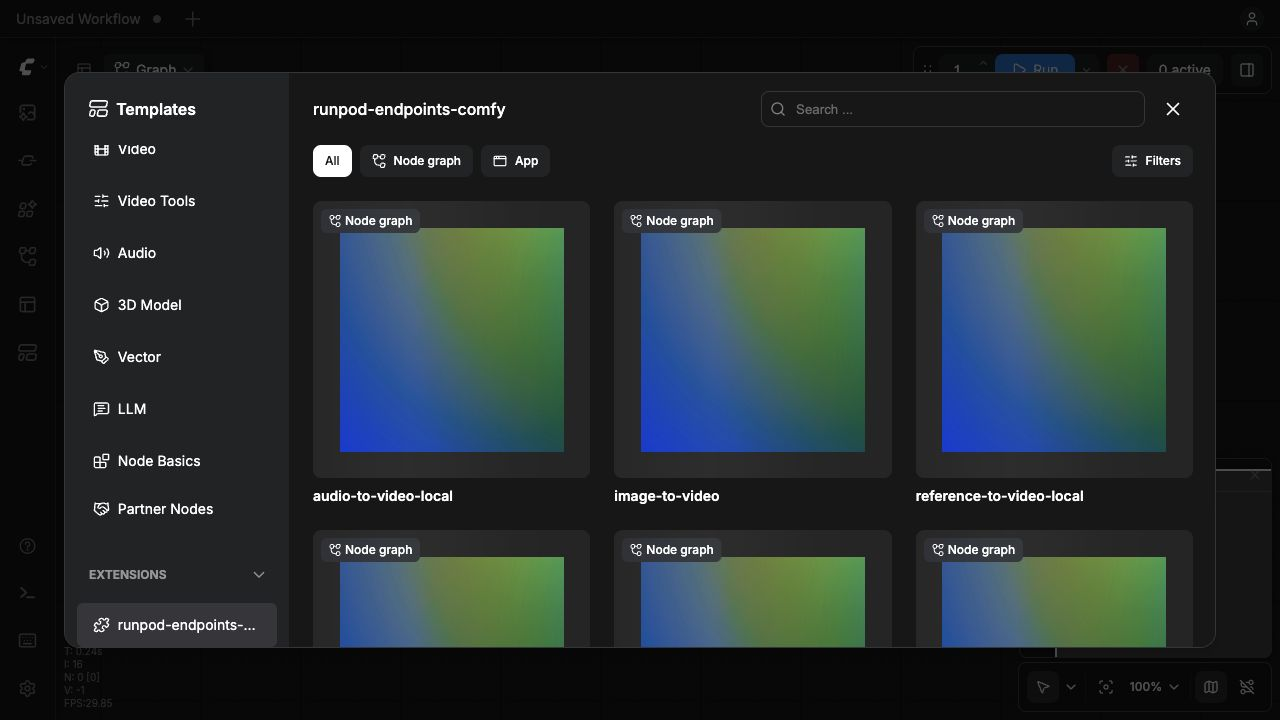
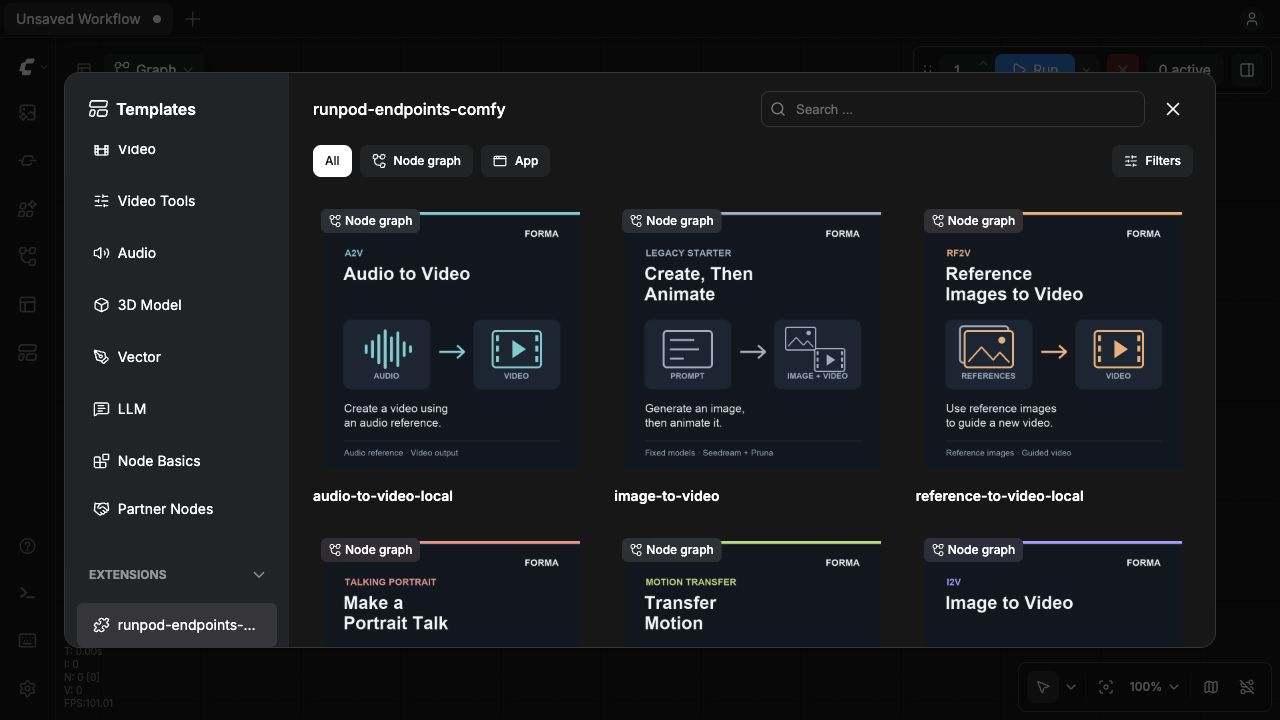
Add illustrated previews and descriptions for every workflow template

diff --git a/scripts/build_template_cards.py b/scripts/build_template_cards.py
@@ -1,0 +1,106 @@
+"""Build native ComfyUI JPG previews from editable workflow card metadata.
+
+Run with ComfyUI's Python (Pillow is already a package dependency).
+Only documentation assets and the instructions node are updated.
+"""
+import json
+from pathlib import Path
+
+from PIL import Image, ImageDraw, ImageFont
+
+ROOT = Path(__file__).resolve().parents[1]
+BG, PANEL, INK, MUTED = '#101923', '#1c2938', '#f4f7fb', '#a9b7c9'
+
+
+def font(size, bold=False):
+    filename = 'Arial Bold.ttf' if bold else 'Arial.ttf'
+    candidates = [Path('/System/Library/Fonts/Supplemental') / filename,
+                  Path('/usr/share/fonts/truetype/dejavu') / ('DejaVuSans-Bold.ttf' if bold else 'DejaVuSans.ttf'),
+                  Path('C:/Windows/Fonts') / ('arialbd.ttf' if bold else 'arial.ttf')]
+    for path in candidates:
+        if path.exists():
+            return ImageFont.truetype(str(path), size)
+    raise RuntimeError('Install Arial or DejaVu Sans to rebuild the template cards.')
+
+
+def icon(draw, kind, x, y, accent, scale=1):
+    def box(coords):
+        return tuple(round((x if i % 2 == 0 else y) + v * scale) for i, v in enumerate(coords))
+
+    width = max(2, round(6 * scale))
+    if '+' in kind:
+        first, second = kind.split('+')
+        icon(draw, first, x - 23 * scale, y - 10 * scale, accent, scale * .62)
+        icon(draw, second, x + 64 * scale, y + 54 * scale, accent, scale * .62)
+        return
+    if kind in ('image', 'images', 'frames'):
+        if kind in ('images', 'frames'):
+            draw.rounded_rectangle(box((-14, -14, 136, 100)), radius=round(12 * scale), outline=MUTED, width=width)
+        draw.rounded_rectangle(box((0, 0, 150, 114)), radius=round(12 * scale), fill=PANEL, outline=accent, width=width)
+        draw.ellipse(box((104, 20, 124, 40)), fill=accent)
+        draw.line(box((14, 94, 53, 51, 88, 89, 108, 67, 136, 96)), fill=accent, width=width, joint='curve')
+        if kind == 'frames':
+            draw.text(box((15, 18)), '1 / 2', font=font(round(24 * scale), True), fill=INK)
+    elif kind == 'video':
+        draw.rounded_rectangle(box((0, 0, 150, 114)), radius=round(12 * scale), outline=accent, width=width)
+        for offset in (13, 131):
+            for row in (16, 47, 78):
+                draw.rectangle(box((offset, row, offset + 8, row + 17)), fill=accent)
+        draw.polygon(box((62, 30, 62, 84, 102, 57)), fill=accent)
+    elif kind == 'text':
+        draw.rounded_rectangle(box((0, 0, 150, 114)), radius=round(12 * scale), outline=accent, width=width)
+        for row, length in ((29, 94), (57, 108), (85, 62)):
+            draw.line(box((22, row, length, row)), fill=accent, width=width)
+    elif kind == 'audio':
+        for i, height in enumerate((28, 55, 90, 118, 76, 105, 47, 22)):
+            cx = 9 + i * 19
+            draw.rounded_rectangle(box((cx, 57 - height / 2, cx + 8, 57 + height / 2)), radius=round(4 * scale), fill=accent)
+    elif kind == 'portrait':
+        draw.ellipse(box((48, 0, 104, 56)), outline=accent, width=width)
+        draw.arc(box((18, 54, 132, 150)), 180, 360, fill=accent, width=width)
+        draw.line(box((18, 103, 132, 103)), fill=accent, width=width)
+
+
+def build(card):
+    accent = card['color']
+    image = Image.new('RGB', (768, 768), BG)
+    draw = ImageDraw.Draw(image)
+    draw.rectangle((0, 0, 767, 8), fill=accent)
+    draw.text((704, 49), 'FORMA', font=font(28, True), fill=INK, anchor='ra')
+    draw.text((62, 107), card['mode'], font=font(28, True), fill=accent)
+    for index, line in enumerate(card['title']):
+        draw.text((58, 155 + index * 61), line, font=font(54, True), fill=INK)
+    for x in (58, 448):
+        draw.rounded_rectangle((x, 323, x + 260, 531), radius=22, fill=PANEL)
+    icon(draw, card['flow'][0], 113, 354, accent)
+    icon(draw, card['flow'][1], 503, 354, accent)
+    draw.text((188, 492), card['labels'][0], font=font(24, True), fill=MUTED, anchor='mm')
+    draw.text((578, 492), card['labels'][1], font=font(24, True), fill=MUTED, anchor='mm')
+    draw.line((346, 419, 419, 419), fill=accent, width=7)
+    draw.line((399, 400, 420, 419, 399, 438), fill=accent, width=7, joint='curve')
+    for index, line in enumerate(card['description']):
+        assert draw.textlength(line, font=font(34)) <= 652, line
+        draw.text((60, 570 + 43 * index), line, font=font(34), fill=INK)
+    draw.line((60, 686, 708, 686), fill='#344252', width=2)
+    draw.text((60, 708), card['footer'], font=font(25), fill=MUTED)
+    output = ROOT / 'workflows' / (card['file'] + '.jpg')
+    image.save(output, quality=90, subsampling=0, optimize=True)
+
+    workflow = output.with_suffix('.json')
+    graph = json.loads(workflow.read_text())
+    guide = next(n for n in graph['nodes'] if n['type'] == 'FormaApiKeySetup')
+    instructions = guide['widgets_values'][0]
+    instructions = instructions[instructions.index('GET YOUR FORMA API KEY'):]
+    guide['title'] = 'Forma · ' + ' '.join(card['title']) + ' · Instructions'
+    guide['widgets_values'][0] = ('ABOUT THIS WORKFLOW\n\n' + ' '.join(card['description'])
+        + '\n' + card['detail'] + '\n\n' + instructions)
+    workflow.write_text(json.dumps(graph, indent=2) + '\n')
+
+
+if __name__ == '__main__':
+    cards = json.loads((ROOT / 'scripts/template_cards.json').read_text())
+    workflows = {p.stem for p in (ROOT / 'workflows').glob('*.json')}
+    assert {card['file'] for card in cards} == workflows
+    for card in cards:
+        build(card)
+    print(f'Built {len(cards)} thumbnails and workflow descriptions.')

diff --git a/workflows/README.md b/workflows/README.md
@@ -1,6 +1,6 @@
 # Workflow examples
 
-In ComfyUI, open **Templates → Extensions → runpod-endpoints-comfy** and click a workflow card. All ten modes below and both image-generation-to-video starters are installed with the custom nodes; users do not need to copy JSON files. After updating the package, restart ComfyUI and refresh the browser. Save an edited workflow normally to keep a personal copy.
+In ComfyUI, open **Templates → Extensions → runpod-endpoints-comfy** and click a workflow card. All ten modes below and both image-generation-to-video starters are installed with the custom nodes; users do not need to copy JSON files. After updating the package, restart ComfyUI and refresh the browser. If previews still show gradients, hard-refresh the page to clear cached missing-image responses. Save an edited workflow normally to keep a personal copy.
 
 Open `choose-model-image-to-video.json` on the ComfyUI canvas for the selectable starter. The original `image-to-video.json` keeps the legacy fixed-model nodes.
 
@@ -41,3 +41,9 @@ The files in `api/` are **API-format graphs** for ComfyUI's `/prompt` endpoint, 
 In the editor, select **Local** on a media input to connect a standard Load Image, Load Video, or Load Audio node. Select **Reference** to reuse a Forma output. Image batches can supply multi-reference fields; audio/video list fields currently accept one clip. Use the built-in save nodes to retain outputs locally.
 
 The same two generic generation nodes cover all these workflows; you do not need a separate node for each model. Changing the selector rebuilds the controls, so check connections afterward.
+
+## Template previews and descriptions
+
+Each canvas JSON has a matching `.jpg` preview, loaded natively by ComfyUI. The previews explain the inputs and output; the existing instructions node includes workflow-specific usage notes followed by API-key setup. Custom-template captions remain filenames because ComfyUI does not currently read separate title/description metadata for extensions.
+
+To update the cards, edit [`scripts/template_cards.json`](../scripts/template_cards.json), then run `python scripts/build_template_cards.py` from the repository root. The builder uses Pillow (already a package dependency) and Arial or DejaVu Sans, updates all 12 previews and instructions nodes, and leaves generation settings and connections unchanged. Keep metadata outside this directory so it is not listed as another workflow.

diff --git a/README.md b/README.md
@@ -13,7 +13,7 @@ git clone https://github.com/vavo/runpod-endpoints-comfy.git custom_nodes/runpod
 python -m pip install -r custom_nodes/runpod-endpoints-comfy/requirements.txt
 ```
 
-1. Restart ComfyUI and refresh the browser.
+1. Restart ComfyUI and refresh the browser. If previews still show gradients, hard-refresh the page to clear cached missing-image responses.
 2. At [forma.cam](https://forma.cam), open **Account settings → API keys → Create API key** and add funds to your account.
 3. Open **ComfyUI Settings → Forma → API key**, paste your key, and click **Save and test key**. This checks your balance without spending credits.
 4. Click **Templates → runpod-endpoints-comfy** under **Extensions**, then choose a workflow. All ten modes are included, plus the image-generation-to-video starters. Choose a model, edit the prompt, and click **Check price** before queueing. No JSON copying is needed.
@@ -24,7 +24,7 @@ Requires Python 3.10+, current ComfyUI with native V3 `DynamicCombo`, `VIDEO` an
 
 After installing or updating the nodes, restart ComfyUI and refresh the browser. Open **Templates → Extensions → runpod-endpoints-comfy** and click a card to load a new workflow. The standalone **text-to-image** and **text-to-video** templates need no input files; media-based templates include connected loaders. **choose-model-image-to-video** generates an image and then animates it.
 
-Templates ship with the node package and update with it. Save your edited workflow normally to keep your own copy. The [workflow list](workflows/README.md) also provides direct JSON downloads.
+Templates ship with the node package and update with it. Save your edited workflow normally to keep your own copy. The [workflow list](workflows/README.md) also provides direct JSON downloads. Each preview shows the mode, required inputs, output and a short description. Open the workflow’s **Instructions** node for its usage notes and API-key setup. ComfyUI currently uses filenames as custom-template captions, so the readable descriptions are included in the preview itself.
 
 ![Forma workflows in ComfyUI’s Templates menu](docs/images/templates.png)
 

diff --git a/CHANGELOG.md b/CHANGELOG.md
@@ -4,17 +4,20 @@
 
 ### Added
 
+- Distinct native JPG previews for all 12 templates, with readable titles, input/output diagrams and short descriptions. Each workflow’s instructions node now includes its own usage notes.
 - Standalone text-to-image and text-to-video canvas workflows with model selectors, Save nodes and API-key instructions. All ten supported modes now have ready-to-open examples.
 - Native Templates menu access under **Extensions → runpod-endpoints-comfy**, with 12 canvas templates: ten standalone modes and two image-generation-to-video starters. No manual JSON copying is required.
 
 ### Changed
 
+- Add editable card metadata and a Pillow builder for maintaining the previews and instructions together; refresh the Templates screenshot.
 - Move API-format graphs to `workflows/api/` so they do not appear as canvas templates; update their documentation links.
 - Refresh the README around installation, template loading, model selection, local media inputs and price checks. Retain the full list of 39 supported models and clearly document the five disabled speech/text entries.
 - Replace outdated setup guidance, shorten legacy-node instructions, and add screenshots of the current Templates menu and image-to-video workflow from a clean local ComfyUI instance.
 
 ### Verified
 
+- All 12 JPG previews load through native template routes and were visually checked; rebuilding the cards is idempotent and preserves generation settings and connections.
 - All 12 native template URLs return editor graphs, and saved connections pass validation. Direct template loading on the pod restores Load Image → Forma Video → Save Video.
 - README model IDs and local links were checked. Template verification and screenshot capture submitted no paid inference.
 
